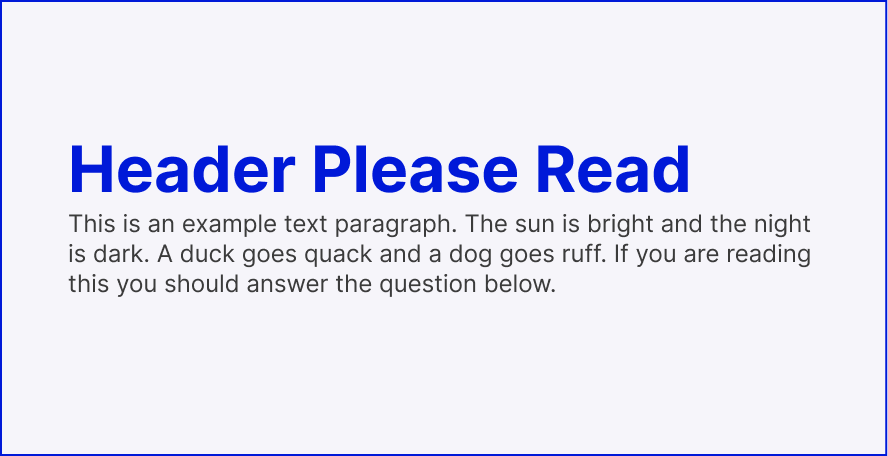
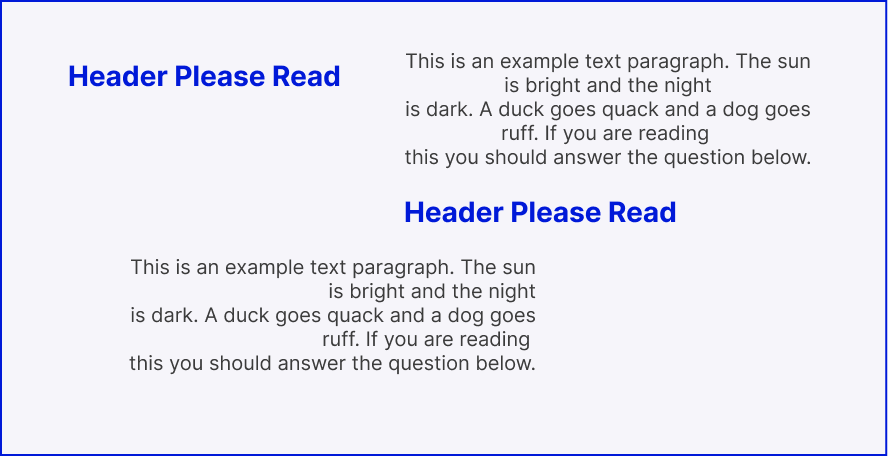
feat: add question #7

Changed region(s): [[0.0608, 0.1228, 0.9122, 0.8289], [0.0608, 0.1228, 0.3953, 0.2149]]

diff --git a/assets/css/question.css b/assets/css/question.css
@@ -97,9 +97,11 @@
 
   .question-images {
     flex-direction: row;
+    flex-wrap: wrap;
   }
 
   .question-images figure {
+    width: 38%;
     align-items: flex-start; /* Always have images lined up */
     gap: 1rem;
   }

diff --git a/assets/scripts/submitQuiz.php b/assets/scripts/submitQuiz.php
@@ -8,7 +8,7 @@
 
   // Consolidate all of the question values (0/INCORRECT or 1/CORRECT)
   $answers = [];
-  for ($index = 1; $index < 7; $index++) {
+  for ($index = 1; $index < count($questions) + 1; $index++) {
     $answers[] = $_POST["question$index"];
   }
 
